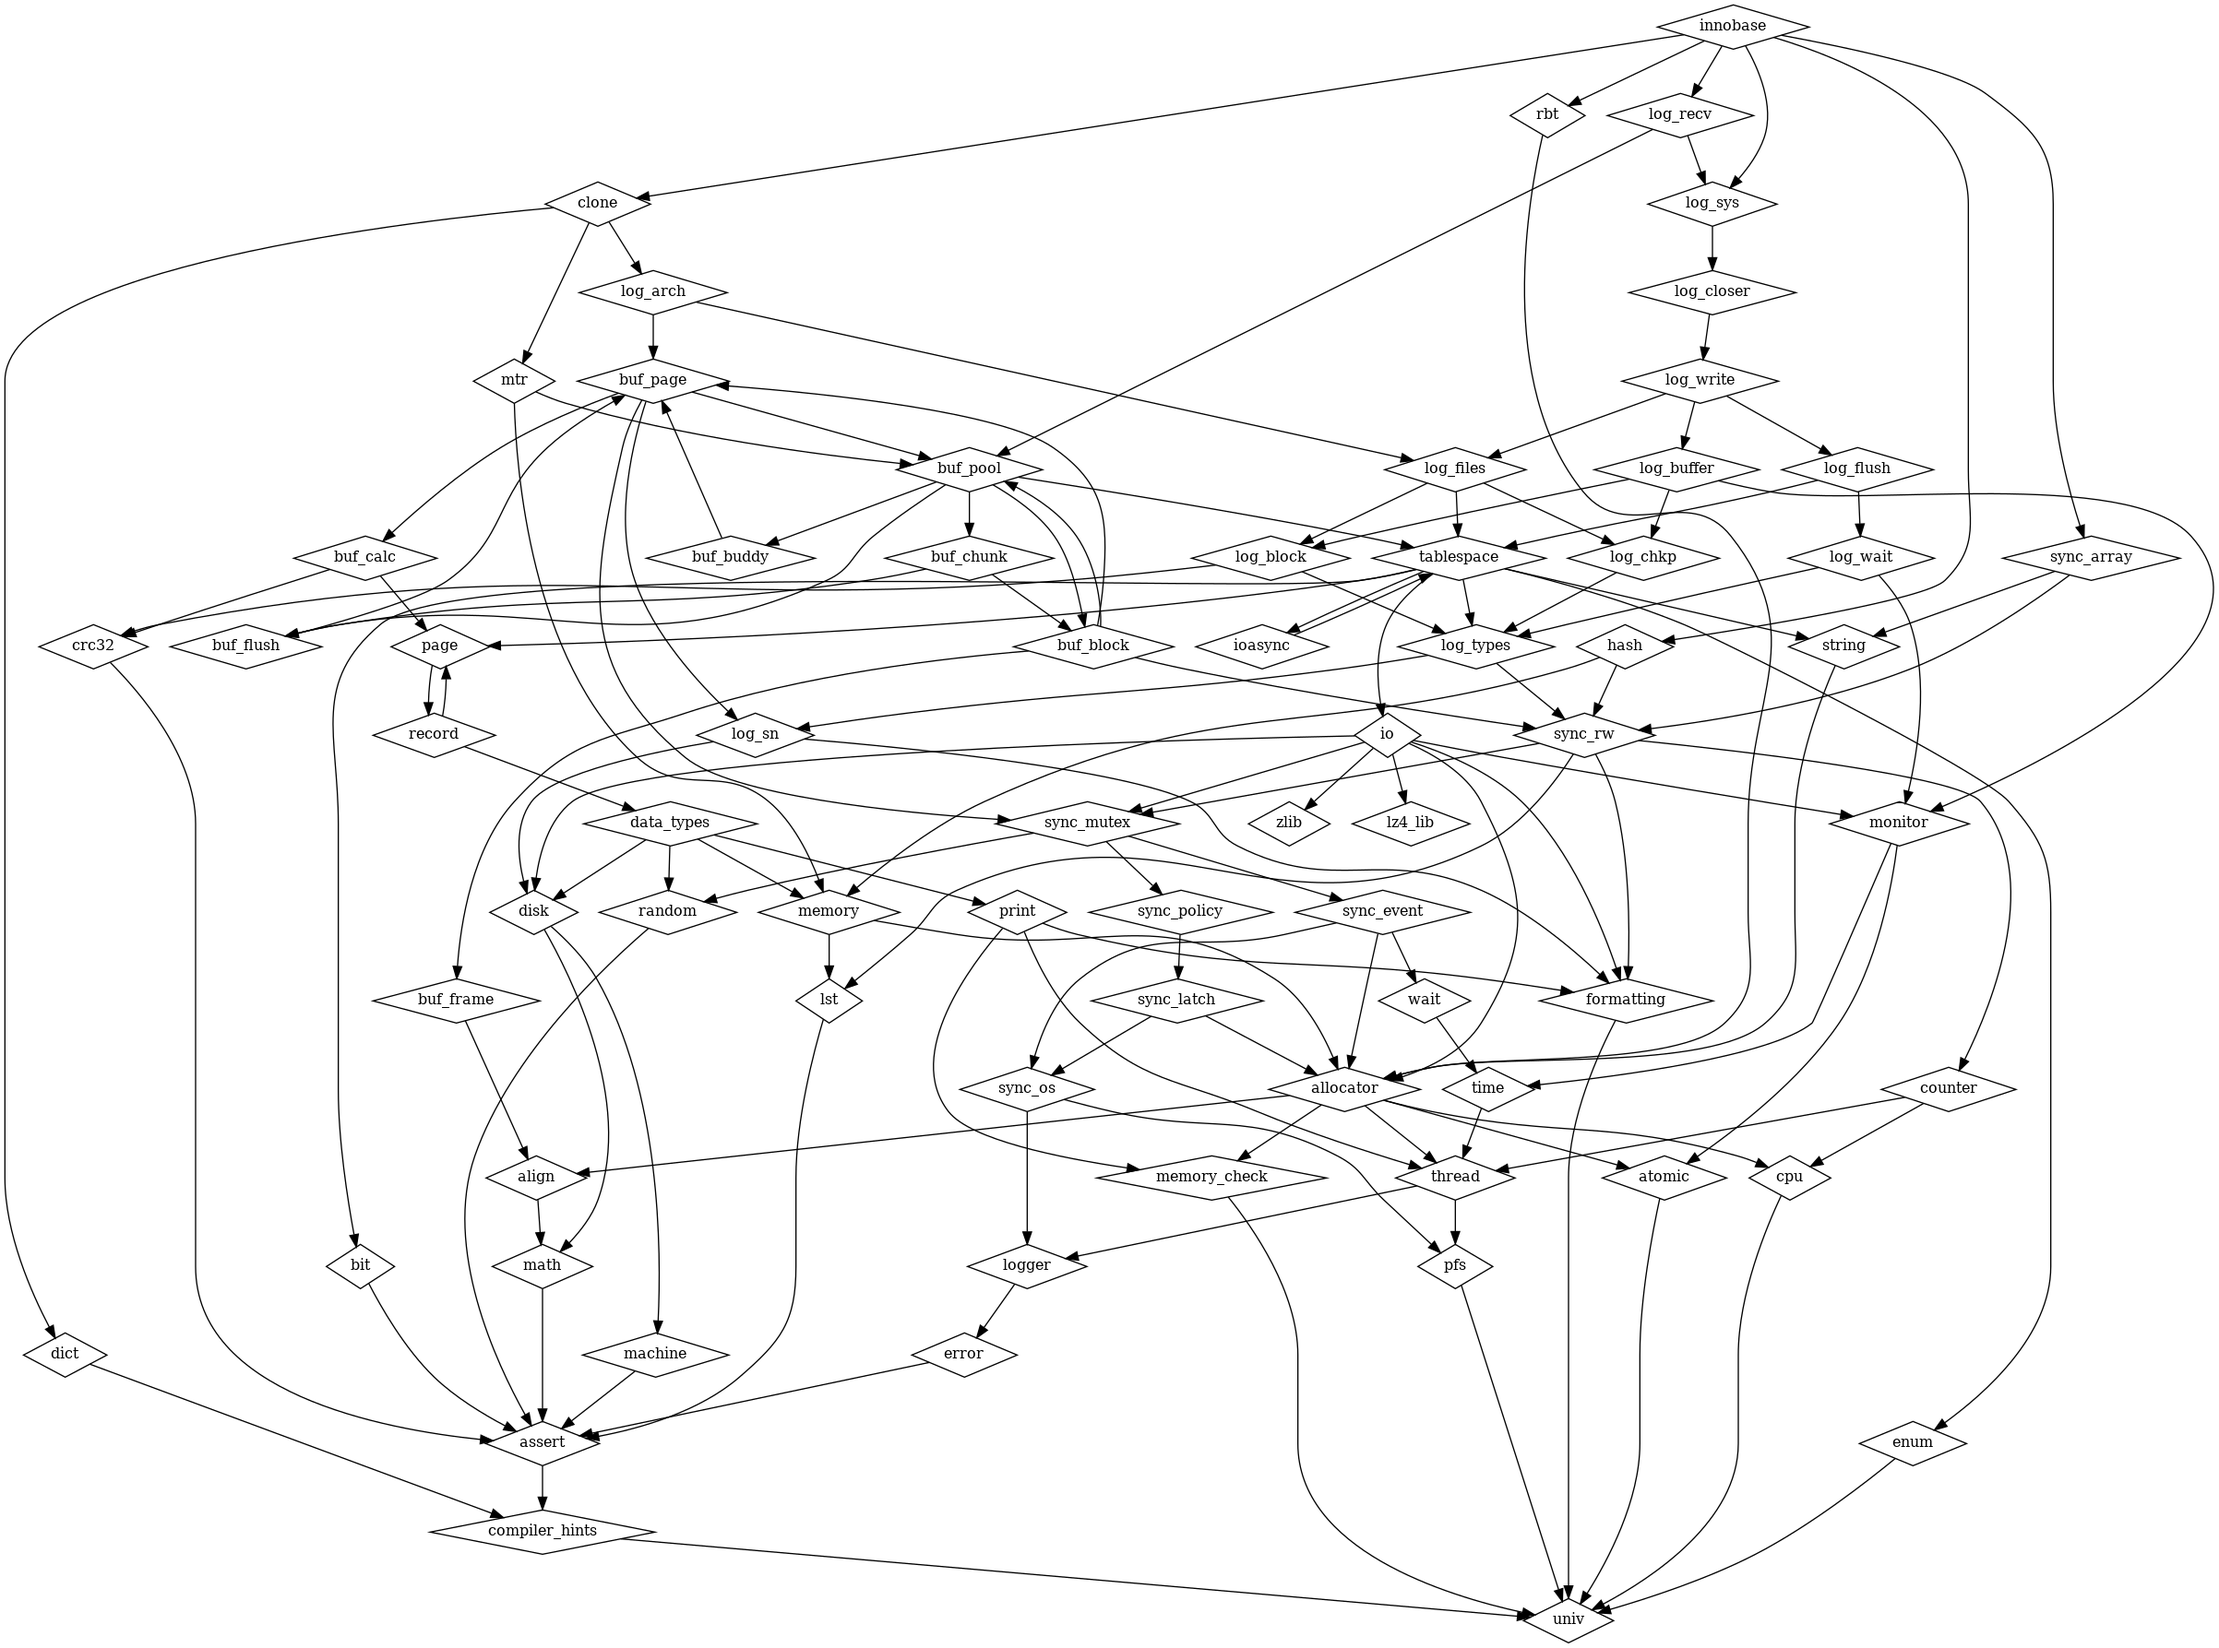
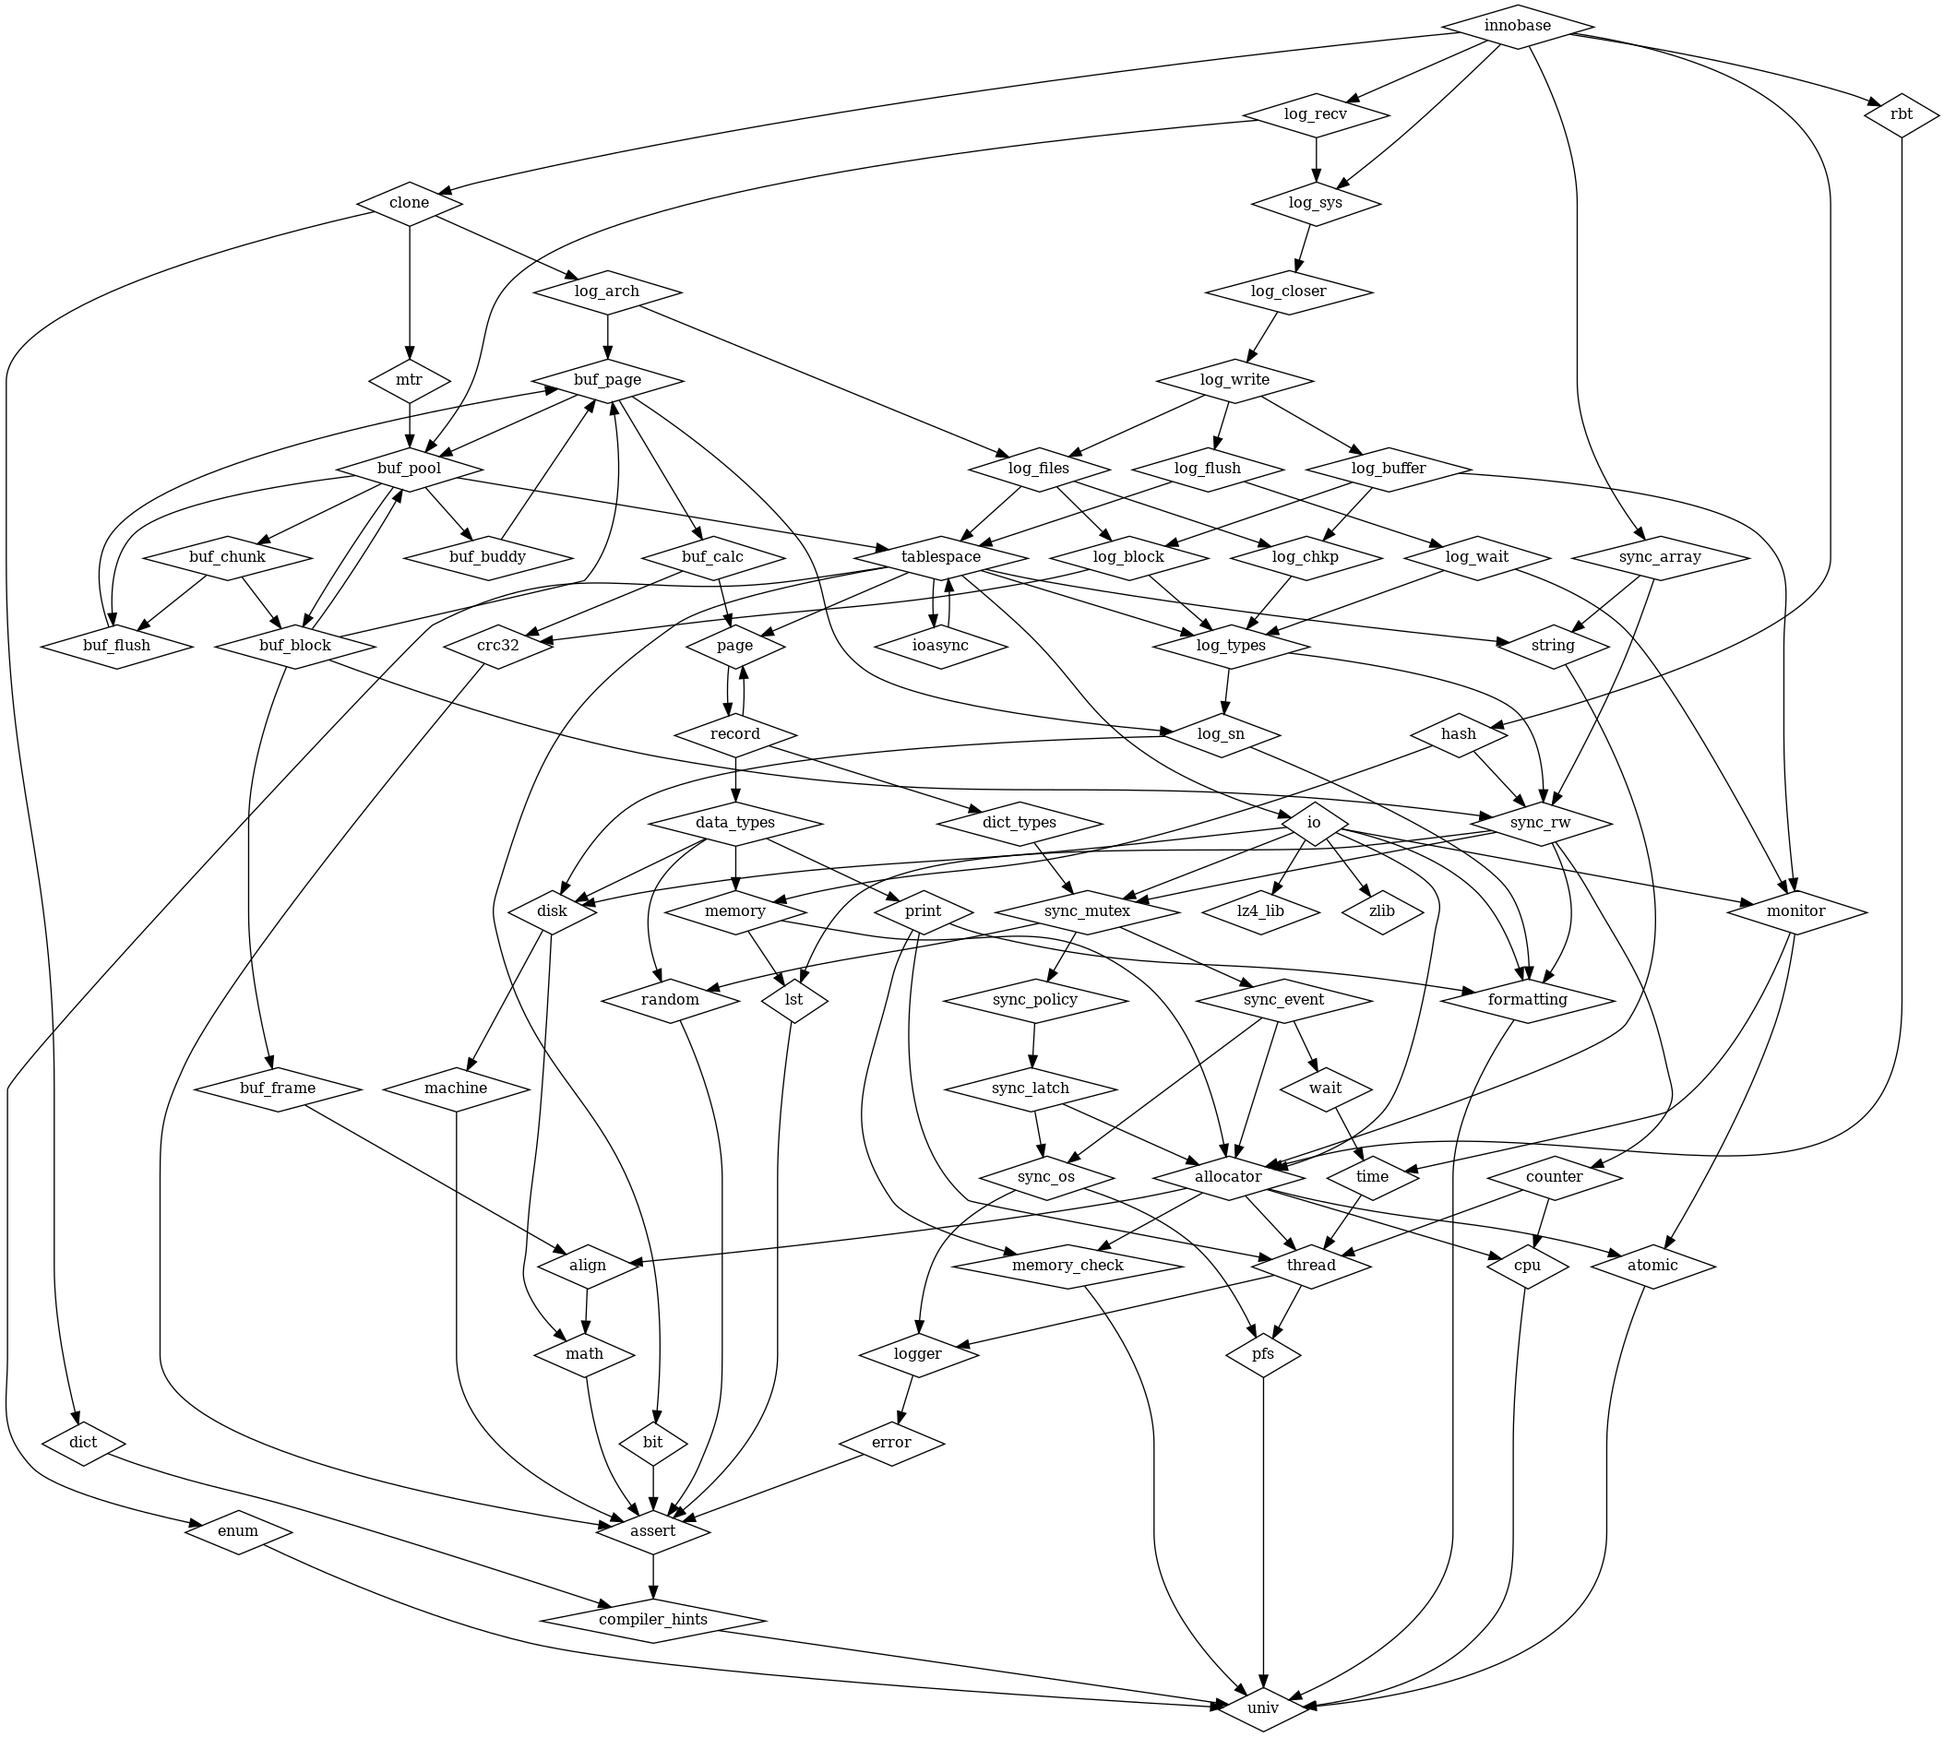
Create dict_types library

diff --git a/storage/innobase/include/dict0types.h b/storage/innobase/include/dict0types.h
@@ -38,6 +38,9 @@ this program; if not, write to the Free Software Foundation, Inc.,
 #include <innodb/record/rec_t.h>
 #include <innodb/record/flag.h>
 
+
+
+
 #include <innodb/sync_mutex/ib_mutex_t.h>
 #include <innodb/dict/flags.h>
 
@@ -56,102 +59,17 @@ struct ind_node_t;
 struct tab_node_t;
 struct dict_add_v_col_t;
 
-/* Space id and page no where the dictionary header resides */
-#define DICT_HDR_SPACE 0 /* the SYSTEM tablespace */
-#define DICT_HDR_PAGE_NO FSP_DICT_HDR_PAGE_NO
-
-/* The ibuf table and indexes's ID are assigned as the number
-DICT_IBUF_ID_MIN plus the space id */
-#define DICT_IBUF_ID_MIN 0xFFFFFFFF00000000ULL
 
 
-/** Index identifier (unique within a tablespace). */
-typedef ib_id_t space_index_t;
 
-/** Globally unique index identifier */
-class index_id_t {
- public:
-  /** Constructor.
-  @param[in]	space_id	Tablespace identifier
-  @param[in]	index_id	Index identifier */
-  index_id_t(space_id_t space_id, space_index_t index_id)
-      : m_space_id(space_id), m_index_id(index_id) {}
 
-  /** Compare this to another index identifier.
-  @param other	the other index identifier
-  @return whether this is less than other */
-  bool operator<(const index_id_t &other) const {
-    return (m_space_id < other.m_space_id ||
-            (m_space_id == other.m_space_id && m_index_id < other.m_index_id));
-  }
-  /** Compare this to another index identifier.
-  @param other	the other index identifier
-  @return whether the identifiers are equal */
-  bool operator==(const index_id_t &other) const {
-    return (m_space_id == other.m_space_id && m_index_id == other.m_index_id);
-  }
 
-  /** Convert an index_id to a 64 bit integer.
-  @return a 64 bit integer */
-  uint64_t conv_to_int() const {
-    ut_ad((m_index_id & 0xFFFFFFFF00000000ULL) == 0);
 
-    return (static_cast<uint64_t>(m_space_id) << 32 | m_index_id);
-  }
 
-  /** Check if the index belongs to the insert buffer.
-  @return true if the index belongs to the insert buffer */
-  bool is_ibuf() const {
-    return (m_space_id == IBUF_SPACE_ID &&
-            m_index_id == DICT_IBUF_ID_MIN + IBUF_SPACE_ID);
-  }
 
-  /** Tablespace identifier */
-  space_id_t m_space_id;
-  /** Index identifier within the tablespace */
-  space_index_t m_index_id;
-};
 
-/** Display an index identifier.
-@param[in,out]	out	the output stream
-@param[in]	id	index identifier
-@return the output stream */
-inline std::ostream &operator<<(std::ostream &out, const index_id_t &id) {
-  return (out << "[space=" << id.m_space_id << ",index=" << id.m_index_id
-              << "]");
-}
 
-/** Error to ignore when we load table dictionary into memory. However,
-the table and index will be marked as "corrupted", and caller will
-be responsible to deal with corrupted table or index.
-Note: please define the IGNORE_ERR_* as bits, so their value can
-be or-ed together */
-enum dict_err_ignore_t {
-  DICT_ERR_IGNORE_NONE = 0,       /*!< no error to ignore */
-  DICT_ERR_IGNORE_INDEX_ROOT = 1, /*!< ignore error if index root
-                                  page is FIL_NULL or incorrect value */
-  DICT_ERR_IGNORE_CORRUPT = 2,    /*!< skip corrupted indexes */
-  DICT_ERR_IGNORE_FK_NOKEY = 4,   /*!< ignore error if any foreign
-                                  key is missing */
-  DICT_ERR_IGNORE_RECOVER_LOCK = 8,
-  /*!< Used when recovering table locks
-  for resurrected transactions.
-  Silently load a missing
-  tablespace, and do not load
-  incomplete index definitions. */
-  DICT_ERR_IGNORE_ALL = 0xFFFF /*!< ignore all errors */
-};
 
-/** Quiescing states for flushing tables to disk. */
-enum ib_quiesce_t {
-  QUIESCE_NONE,
-  QUIESCE_START,   /*!< Initialise, prepare to start */
-  QUIESCE_COMPLETE /*!< All done */
-};
-
-#ifndef UNIV_HOTBACKUP
-typedef ib_mutex_t DictSysMutex;
-#endif /* !UNIV_HOTBACKUP */
 
 
 
@@ -160,15 +78,6 @@ typedef ib_mutex_t DictSysMutex;
 extern uint ibuf_debug;
 #endif /* UNIV_DEBUG || UNIV_IBUF_DEBUG */
 
-/** Shift for spatial status */
-#define SPATIAL_STATUS_SHIFT 12
-
-/** Mask to encode/decode spatial status. */
-#define SPATIAL_STATUS_MASK (3 << SPATIAL_STATUS_SHIFT)
-
-#if SPATIAL_STATUS_MASK < REC_VERSION_56_MAX_INDEX_COL_LEN
-#error SPATIAL_STATUS_MASK < REC_VERSION_56_MAX_INDEX_COL_LEN
-#endif
 
 
 

diff --git a/storage/innobase/libs/dict_types/include/innodb/dict_types/index_id_t.h b/storage/innobase/libs/dict_types/include/innodb/dict_types/index_id_t.h
@@ -1,0 +1,61 @@
+#pragma once
+
+#include <innodb/univ/univ.h>
+
+#include <innodb/assert/assert.h>
+#include <innodb/dict_types/flags.h>
+
+#include <ostream>
+
+/** Globally unique index identifier */
+class index_id_t {
+ public:
+  /** Constructor.
+  @param[in]	space_id	Tablespace identifier
+  @param[in]	index_id	Index identifier */
+  index_id_t(space_id_t space_id, space_index_t index_id)
+      : m_space_id(space_id), m_index_id(index_id) {}
+
+  /** Compare this to another index identifier.
+  @param other	the other index identifier
+  @return whether this is less than other */
+  bool operator<(const index_id_t &other) const {
+    return (m_space_id < other.m_space_id ||
+            (m_space_id == other.m_space_id && m_index_id < other.m_index_id));
+  }
+  /** Compare this to another index identifier.
+  @param other	the other index identifier
+  @return whether the identifiers are equal */
+  bool operator==(const index_id_t &other) const {
+    return (m_space_id == other.m_space_id && m_index_id == other.m_index_id);
+  }
+
+  /** Convert an index_id to a 64 bit integer.
+  @return a 64 bit integer */
+  uint64_t conv_to_int() const {
+    ut_ad((m_index_id & 0xFFFFFFFF00000000ULL) == 0);
+
+    return (static_cast<uint64_t>(m_space_id) << 32 | m_index_id);
+  }
+
+  /** Check if the index belongs to the insert buffer.
+  @return true if the index belongs to the insert buffer */
+  bool is_ibuf() const {
+    return (m_space_id == IBUF_SPACE_ID &&
+            m_index_id == DICT_IBUF_ID_MIN + IBUF_SPACE_ID);
+  }
+
+  /** Tablespace identifier */
+  space_id_t m_space_id;
+  /** Index identifier within the tablespace */
+  space_index_t m_index_id;
+};
+
+/** Display an index identifier.
+@param[in,out]	out	the output stream
+@param[in]	id	index identifier
+@return the output stream */
+inline std::ostream &operator<<(std::ostream &out, const index_id_t &id) {
+  return (out << "[space=" << id.m_space_id << ",index=" << id.m_index_id
+              << "]");
+}

diff --git a/storage/innobase/libs/dict_types/include/innodb/dict_types/flags.h b/storage/innobase/libs/dict_types/include/innodb/dict_types/flags.h
@@ -1,0 +1,35 @@
+#pragma once
+
+#include <innodb/univ/univ.h>
+
+#define FSP_DICT_HDR_PAGE_NO    \
+  7 /*!< data dictionary header \
+    page, in tablespace 0 */
+
+/* Space id and page no where the dictionary header resides */
+#define DICT_HDR_SPACE 0 /* the SYSTEM tablespace */
+#define DICT_HDR_PAGE_NO FSP_DICT_HDR_PAGE_NO
+
+/* The ibuf table and indexes's ID are assigned as the number
+DICT_IBUF_ID_MIN plus the space id */
+#define DICT_IBUF_ID_MIN 0xFFFFFFFF00000000ULL
+
+
+/** Shift for spatial status */
+#define SPATIAL_STATUS_SHIFT 12
+
+/** Mask to encode/decode spatial status. */
+#define SPATIAL_STATUS_MASK (3 << SPATIAL_STATUS_SHIFT)
+
+/** Maximum indexed field length for tables that have atomic BLOBs.
+This (3072) is the maximum index row length allowed, so we cannot create index
+prefix column longer than that. */
+#define REC_VERSION_56_MAX_INDEX_COL_LEN 3072
+
+#if SPATIAL_STATUS_MASK < REC_VERSION_56_MAX_INDEX_COL_LEN
+#error SPATIAL_STATUS_MASK < REC_VERSION_56_MAX_INDEX_COL_LEN
+#endif
+
+
+/* The insert buffer tree itself is always located in space 0. */
+#define IBUF_SPACE_ID static_cast<space_id_t>(0)

diff --git a/storage/innobase/libs/dict_types/include/innodb/dict_types/dict_err_ignore_t.h b/storage/innobase/libs/dict_types/include/innodb/dict_types/dict_err_ignore_t.h
@@ -1,0 +1,24 @@
+#pragma once
+
+#include <innodb/univ/univ.h>
+
+/** Error to ignore when we load table dictionary into memory. However,
+the table and index will be marked as "corrupted", and caller will
+be responsible to deal with corrupted table or index.
+Note: please define the IGNORE_ERR_* as bits, so their value can
+be or-ed together */
+enum dict_err_ignore_t {
+  DICT_ERR_IGNORE_NONE = 0,       /*!< no error to ignore */
+  DICT_ERR_IGNORE_INDEX_ROOT = 1, /*!< ignore error if index root
+                                  page is FIL_NULL or incorrect value */
+  DICT_ERR_IGNORE_CORRUPT = 2,    /*!< skip corrupted indexes */
+  DICT_ERR_IGNORE_FK_NOKEY = 4,   /*!< ignore error if any foreign
+                                  key is missing */
+  DICT_ERR_IGNORE_RECOVER_LOCK = 8,
+  /*!< Used when recovering table locks
+  for resurrected transactions.
+  Silently load a missing
+  tablespace, and do not load
+  incomplete index definitions. */
+  DICT_ERR_IGNORE_ALL = 0xFFFF /*!< ignore all errors */
+};

diff --git a/storage/innobase/libs/record/include/innodb/record/flag.h b/storage/innobase/libs/record/include/innodb/record/flag.h
@@ -4,6 +4,7 @@
 
 #include <innodb/disk/page_size_t.h>
 #include <innodb/data_types/flags.h>
+#include <innodb/dict_types/flags.h>
 
 /* Compact flag ORed to the extra size returned by rec_get_offsets() */
 #define REC_OFFS_COMPACT ((ulint)1 << 31)
@@ -165,10 +166,7 @@ This constant MUST NOT BE CHANGED, or the compatibility of InnoDB data
 files would be at risk! */
 #define REC_ANTELOPE_MAX_INDEX_COL_LEN 768
 
-/** Maximum indexed field length for tables that have atomic BLOBs.
-This (3072) is the maximum index row length allowed, so we cannot create index
-prefix column longer than that. */
-#define REC_VERSION_56_MAX_INDEX_COL_LEN 3072
+
 
 
 /* Maximum lengths for the data in a physical record if the offsets

diff --git a/storage/innobase/libs/univ/include/innodb/univ/univ.h b/storage/innobase/libs/univ/include/innodb/univ/univ.h
@@ -443,6 +443,9 @@ typedef ib_id_t table_id_t;
 /** Tablespace identifier */
 typedef uint32_t space_id_t;
 
+/** Index identifier (unique within a tablespace). */
+typedef ib_id_t space_index_t;
+
 /** Row identifier (DB_ROW_ID, DATA_ROW_ID) */
 typedef ib_id_t row_id_t;
 
@@ -454,6 +457,7 @@ typedef ib_id_t roll_ptr_t;
 
 /** Undo number */
 typedef ib_id_t undo_no_t;
+
 
 #include <limits>
 

diff --git a/storage/innobase/libs/tablespace/include/innodb/tablespace/consts.h b/storage/innobase/libs/tablespace/include/innodb/tablespace/consts.h
@@ -100,9 +100,7 @@ every XDES_DESCRIBED_PER_PAGE pages in every tablespace. */
 #define FSP_FIRST_RSEG_PAGE_NO  \
   6 /*!< first rollback segment \
     page, in tablespace 0 */
-#define FSP_DICT_HDR_PAGE_NO    \
-  7 /*!< data dictionary header \
-    page, in tablespace 0 */
+
 
 /* The following page exists in each v8 Undo Tablespace.
 (space_id = SRV_LOG_SPACE_FIRST_ID - undo_space_num)

diff --git a/storage/innobase/include/dict0dict.h b/storage/innobase/include/dict0dict.h
@@ -36,6 +36,8 @@ this program; if not, write to the Free Software Foundation, Inc.,
 
 #include <innodb/univ/univ.h>
 
+#include <innodb/dict_types/dict_err_ignore_t.h>
+#include <innodb/dict_types/DictSysMutex.h>
 #include <innodb/hash/hash_table_t.h>
 #include <innodb/hash/HASH_GET_NEXT.h>
 #include <innodb/hash/HASH_GET_FIRST.h>

diff --git a/storage/innobase/include/dict0mem.h b/storage/innobase/include/dict0mem.h
@@ -36,6 +36,8 @@ this program; if not, write to the Free Software Foundation, Inc.,
 
 #include <innodb/univ/univ.h>
 
+#include <innodb/dict_types/index_id_t.h>
+#include <innodb/dict_types/ib_quiesce_t.h>
 #include <innodb/data_types/dtype_t.h>
 #include <innodb/data_types/spatial_status_t.h>
 #include <innodb/mtr/mtr_commit.h>

diff --git a/storage/innobase/include/ibuf0types.h b/storage/innobase/include/ibuf0types.h
@@ -35,8 +35,7 @@ this program; if not, write to the Free Software Foundation, Inc.,
 
 #include <innodb/univ/univ.h>
 
-/* The insert buffer tree itself is always located in space 0. */
-#define IBUF_SPACE_ID static_cast<space_id_t>(0)
+#include <innodb/dict_types/flags.h>
 
 struct ibuf_t;
 

diff --git a/storage/innobase/libs/dict_types/include/innodb/dict_types/ib_quiesce_t.h b/storage/innobase/libs/dict_types/include/innodb/dict_types/ib_quiesce_t.h
@@ -1,0 +1,10 @@
+#pragma once
+
+#include <innodb/univ/univ.h>
+
+/** Quiescing states for flushing tables to disk. */
+enum ib_quiesce_t {
+  QUIESCE_NONE,
+  QUIESCE_START,   /*!< Initialise, prepare to start */
+  QUIESCE_COMPLETE /*!< All done */
+};

diff --git a/storage/innobase/include/dict0load.h b/storage/innobase/include/dict0load.h
@@ -35,6 +35,8 @@ this program; if not, write to the Free Software Foundation, Inc.,
 #define dict0load_h
 
 #include <innodb/univ/univ.h>
+
+#include <innodb/dict_types/dict_err_ignore_t.h>
 #include <innodb/record/rec_t.h>
 
 #include "btr0types.h"
